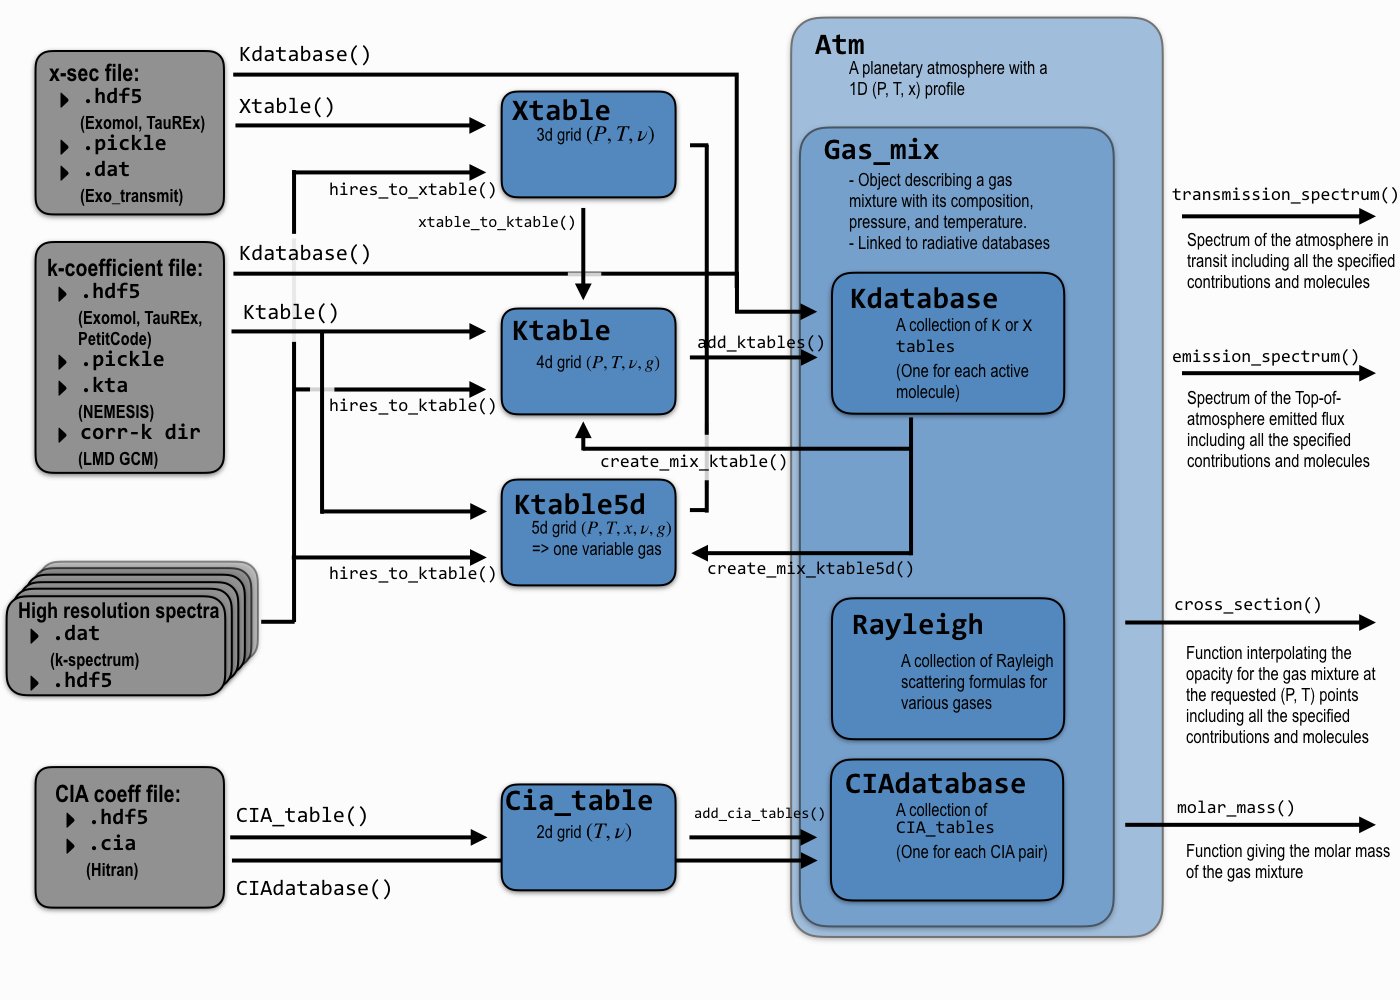
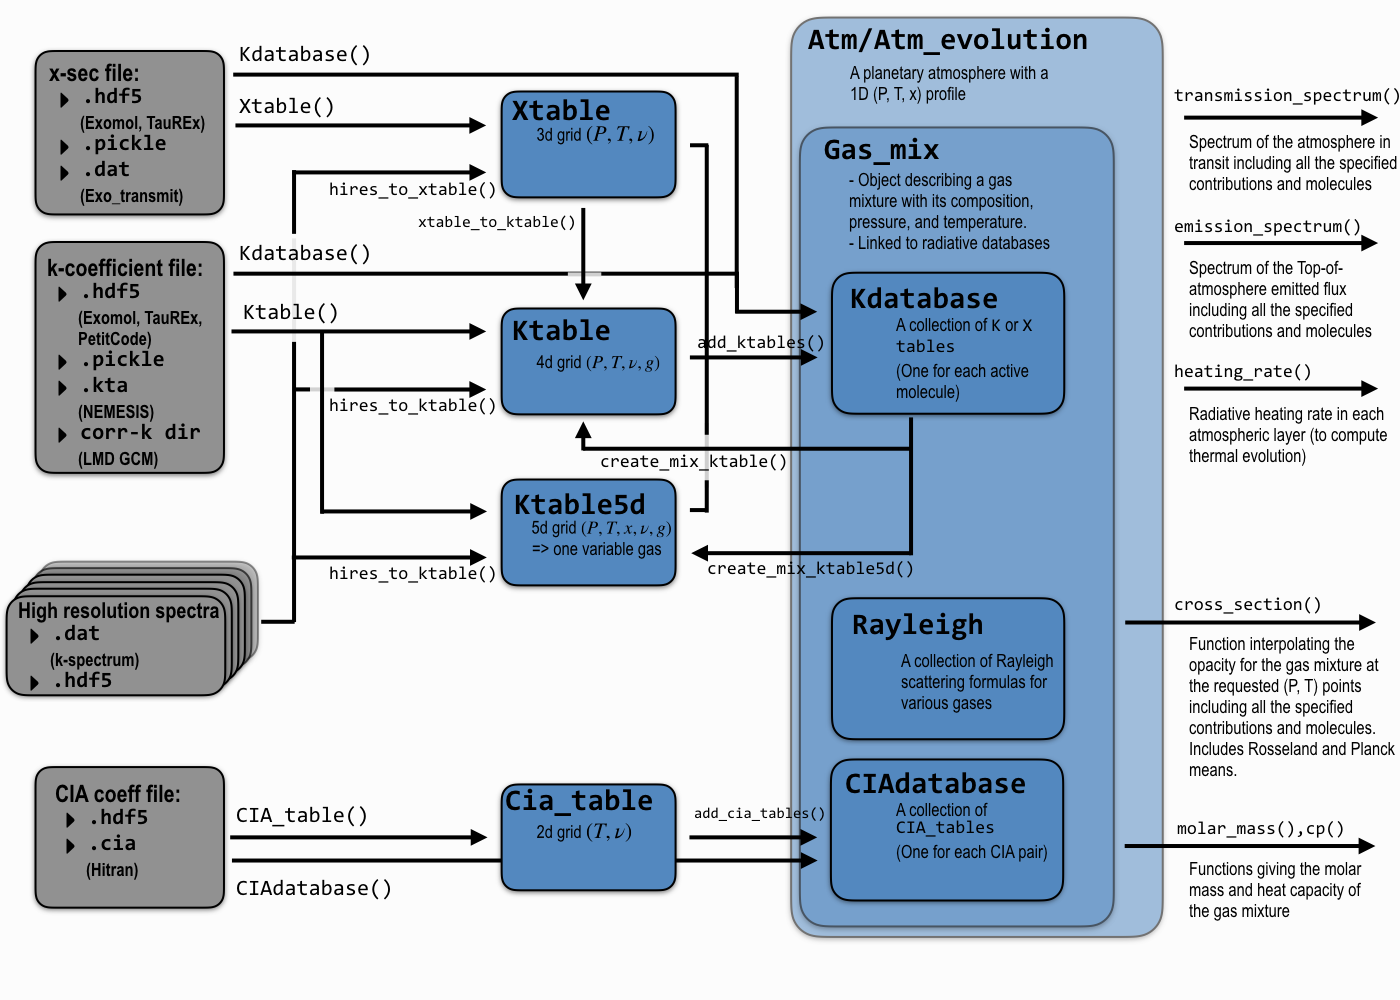
Updated documentation and README

diff --git a/README.md b/README.md
@@ -38,14 +38,15 @@ This project has received funding from the European Research Council (ERC)
 under the European Union's Horizon 2020 research and innovation programme
 (grant agreement n° 679030/WHIPLASH).
 
-The framework for this documentation has been developped by Aurelien Falco using Sphinx. 
+The framework for this documentation has been developped by Aurelien Falco using Sphinx.
+The Framework for automatic testing has been developped by Alexandre Mechineau. 
 
 # last release (see past releases below)
 
-v1.0.2 (June 2021): Adds a few missing dependencies. Enables computation of thermal
-emission spectra with scattering through the two-stream method (full documentation pending). 
-Enables creating Xtables for a mix of gases (CIA can be added as well). Solves some issues
-with the 2018 Hitran CIA format.
+v1.2.0 (July 2022): The model for atmospheric evolution is finally stable and documented.
+The atm module has also seen several note worthy additions: surface albedo, oceans. 
+We also added a framework for an automatic test suite. In particular, we can test several python versions. Additional tests should rapidly come along.
+Rosseland and Planck mean opacities can now be computed from radiative tables. 
 
 # Installation
 
@@ -74,6 +75,15 @@ Have fun!
 
 
 # past releases
+
+v1.1.0 (August 2021): New scheme for the computation of atmospheric emission/transmission
+to ensure an improved numerical accuracy. The variable names to instantiate atm objects have
+changed accordingly (see tutorial). 
+
+v1.0.2 (June 2021): Adds a few missing dependencies. Enables computation of thermal
+emission spectra with scattering through the two-stream method (full documentation pending). 
+Enables creating Xtables for a mix of gases (CIA can be added as well). Solves some issues
+with the 2018 Hitran CIA format.
 
 v1.0.1 (Jan 2021): Solves a binary/string conversion issue introduced by version 3 of h5py.
 Enables linear interpolation in pressure (default is log). Enables creation of

diff --git a/doc/basic_principles.rst b/doc/basic_principles.rst
@@ -91,6 +91,15 @@ use the following objects that are, literally, dictionaries of individual tables
    (P, T, composition) atmospheric profile along with data about the planet (Radius, gravity, etc.).
    This object can use the database of your
    choice to compute directly the :func:`~exo_k.atm.Atm.emission_spectrum()` or the
-   :func:`~exo_k.atm.Atm.transmission_spectrum()` of your planet. 
+   :func:`~exo_k.atm.Atm.transmission_spectrum()` of your planet.
+   One can also compte the radiative heating rates with :func:`~exo_k.atm.Atm.heating_rate()`.
    This class can be used to test the sensitivity of your final spectrum
    to your initial data (resolution, etc.), but also as a full fledged planetary spectrum generator.
+
+* :class:`~exo_k.atm_evolution.atm_evolution.Atm_evolution`:
+   An extension of the `Atm` class, this object now allows you to model the evolution
+   of your atmosphere in time or simply to find the equilibrium thermal profile for a given
+   planet knowing its composition and insolation. The atmospheric model
+   includes the effect of dry convection, turbulent diffusion, and moist
+   processes (condensation, moist convection, and precipitations) for any
+   number of species

diff --git a/doc/index.rst b/doc/index.rst
@@ -41,6 +41,11 @@ Enjoy!
 Recent releases
 ===============
 
+v1.2.0 (July 2022): The model for atmospheric evolution is finally stable and documented.
+The atm module has also seen several note worthy additions: surface albedo, oceans. 
+We also added a framework for an automatic test suite. In particular, we can test several python versions. Additional tests should rapidly come along.
+Rosseland and Planck mean opacities can now be computed from radiative tables. 
+
 v1.1.0 (August 2021): New scheme for the computation of atmospheric emission/transmission
 to ensure an improved numerical accuracy. The variable names to instantiate atm objects have
 changed accordingly (see tutorial). 
@@ -74,7 +79,7 @@ Doc Contents
    getting_started
    where_to_find_data
    practical_guide_to_atm
-   exo_k_evol
+   work_in_progress_evol
    neat_examples
    API reference <autoapi/index>
    genindex
@@ -97,4 +102,4 @@ under the European Union's Horizon 2020 research and innovation programme
 (grant agreement n° 679030/WHIPLASH).
 
 The framework for this documentation has been developped by Aurelien Falco using Sphinx. 
-
+The Framework for automatic testing has been developped by Alexandre Mechineau. 
